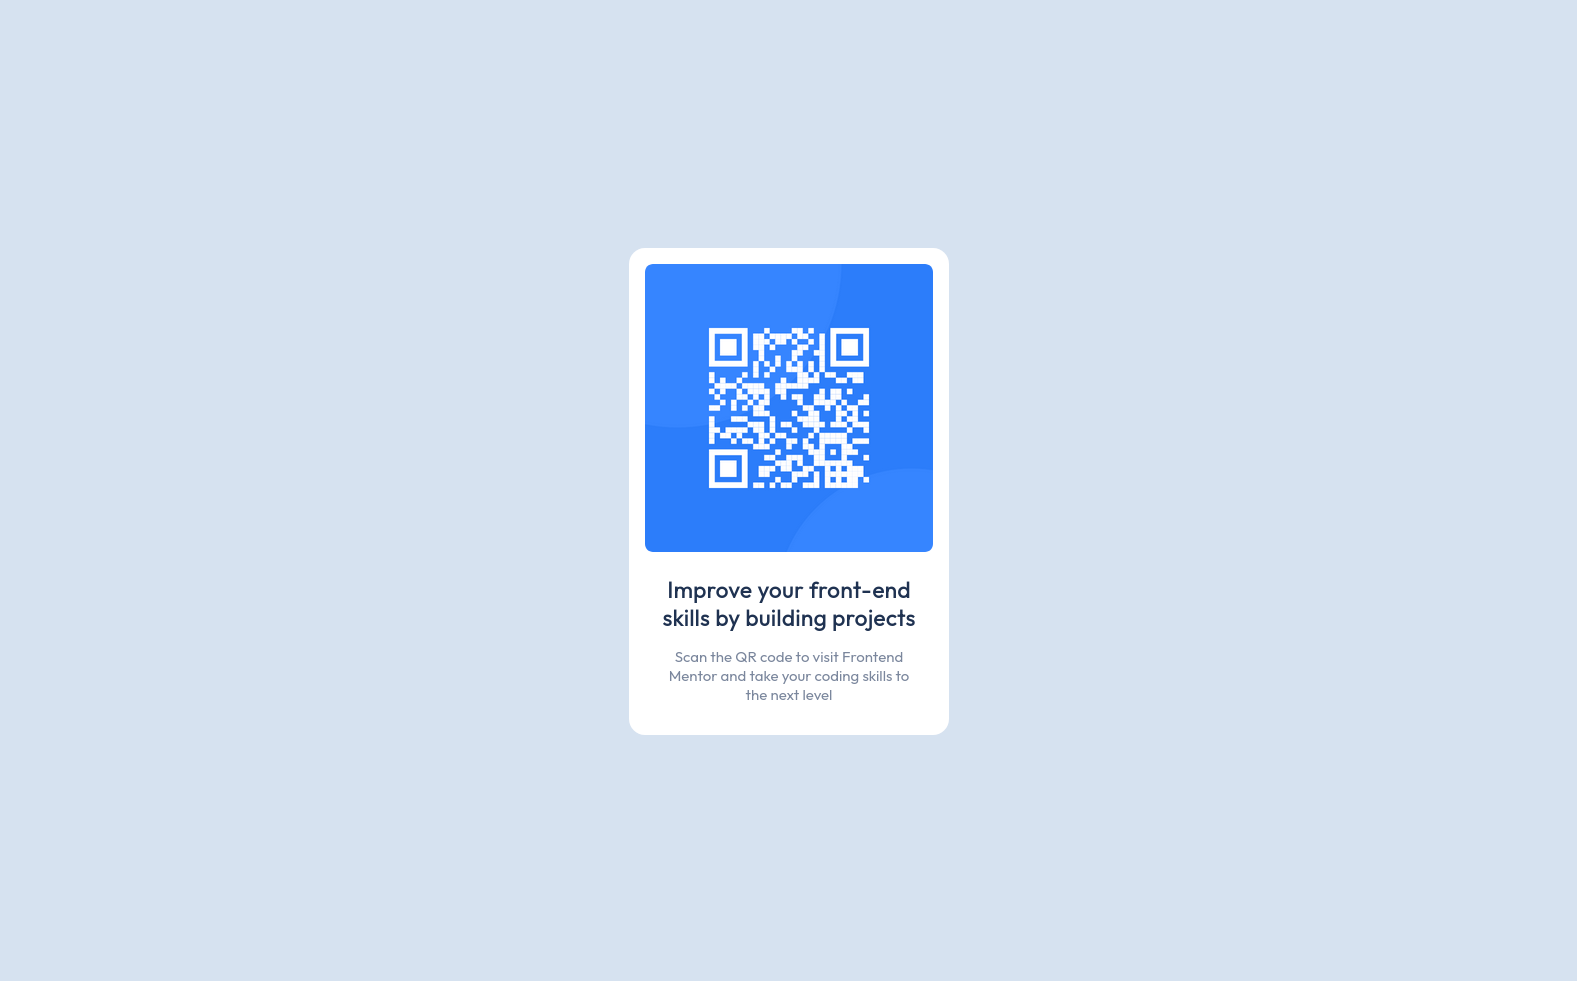
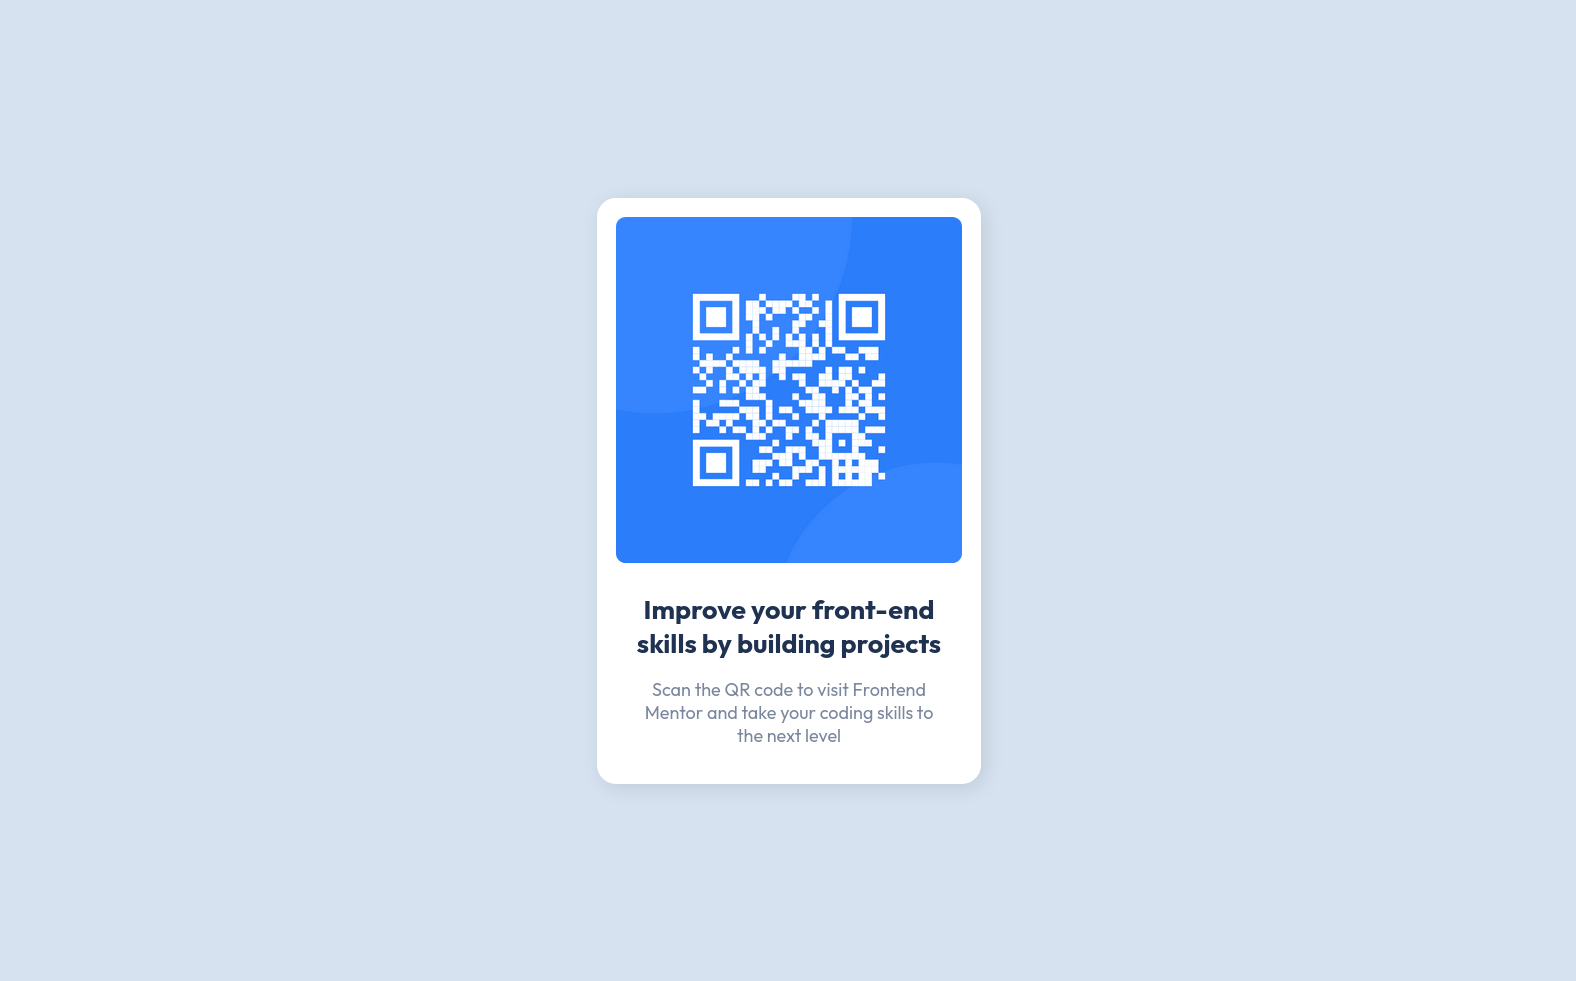
aria + shadow added

Changed region(s): [[0.3731, 0.1835, 0.6218, 0.8257]]

diff --git a/index.html b/index.html
@@ -6,10 +6,6 @@
     <!-- <meta type -->
     <!-- displays site properly based on user's device -->
     <link
-      rel="stylesheet"
-      href="https://fonts.googleapis.com/css?family=Outfit"
-    />
-    <link
       rel="icon"
       type="image/png"
       sizes="32x32"
@@ -20,13 +16,13 @@
     <title>Frontend Mentor | QR code component</title>
   </head>
   <body>
-    <div class="container">
-      <img src="images/image-qr-code.png" />
+    <main>
+      <img src="images/image-qr-code.png" alt="QR code" />
       <h1>Improve your front-end skills by building projects</h1>
       <p>
         Scan the QR code to visit Frontend Mentor and take your coding skills to
         the next level
       </p>
-    </div>
+    </main>
   </body>
 </html>

diff --git a/style.css b/style.css
@@ -1,6 +1,7 @@
 /* Layout */
 /* Mobile: 375px */
 /* Desktop: 1440px */
+@import url('https://fonts.googleapis.com/css2?family=Outfit:wght@400;700&display=swap');
 
 * {
   box-sizing: border-box;
@@ -26,7 +27,7 @@ body {
   background-color: var(--clr-light-gray);
 }
 
-.container {
+main {
   background-color: var(--clr-white);
   border-radius: 1rem;
   width: 320px;
@@ -36,6 +37,7 @@ body {
   top: 50%;
   left: 50%;
   transform: translate(-50%, -50%);
+  box-shadow: 0.2rem 0.2rem 1rem rgba(0, 0, 0, 0.1);
 }
 
 h1 {
